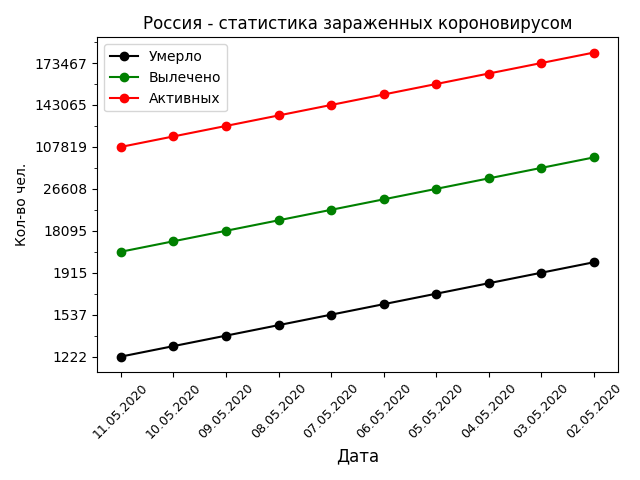
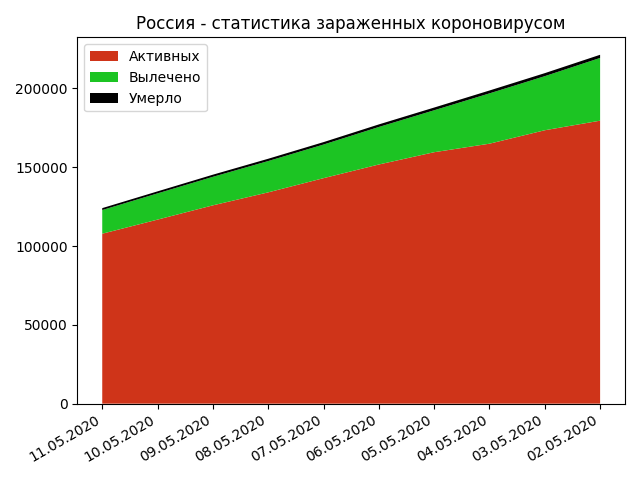
COVID-19 final stat

diff --git a/covid/covid_func.py b/covid/covid_func.py
@@ -1,5 +1,4 @@
 from covid.receive_data import ReceiveCovid
-import matplotlib.ticker as ticker
 import matplotlib.pyplot as plt
 import matplotlib as mpl
 
@@ -18,32 +17,25 @@ class Covid:
         response += "Вылечено: {0} ({1} за сегодня)\n".format(data.cured[i], data.cured_plus[i])
         response += "Умерло: {0} ({1} за сегодня)\n".format(data.died[i], data.died_plus[i])
 
+        labels = ["Активных", "Вылечено", "Умерло"]
+        colors = ["#CF3419", "#1CC423", "k"]
+
         #  Стиль графика
         mpl.style.use("default")
         fig, ax = plt.subplots()
 
-        #  Установка заголовка графика
         ax.set_title("Россия - статистика зараженных короновирусом", fontsize=12)
 
-        #  Задание данных для построения графика
-        ax.plot(data.days, data.died, "o-k", label="Умерло")
-        ax.plot(data.days, data.cured, "o-g", label="Вылечено")
-        ax.plot(data.days, data.active, "o-r", label="Активных")
+        y1 = [int(data.active[i]) for i in range(len(data.active))]
+        y2 = [int(data.cured[i]) for i in range(len(data.cured))]
+        y3 = [int(data.died[i]) for i in range(len(data.died))]
 
-        #  Настройка позиции (вида) индексов осей
-        ax.set_xticklabels(data.days, fontsize=9, rotation=45, horizontalalignment="center")
-
-        #  Частота индексов на оси OY
-        ax.yaxis.set_major_locator(ticker.MultipleLocator(4))
-        ax.yaxis.set_minor_locator(ticker.MultipleLocator(2))
-
-        #  Названия осей
-        ax.set_xlabel("Дата", fontsize=12)
-        ax.set_ylabel("Кол-во чел.")
+        ax.stackplot(data.days, y1, y2, y3, labels=labels, colors=colors, baseline="zero")
+        fig.autofmt_xdate()
 
         #  Инициализация легенды графика
-        ax.legend()
-
+        ax.legend(loc="upper left")
         plt.show()
+
         fig.savefig("covid/covid.png")
         return response, "covid/covid.png"

diff --git a/config.py b/config.py
@@ -1,10 +1,9 @@
 
 #  VK api токен для доступа
[1 lines of base64/hex data omitted]
+vk_api_token = "vk api token..."
 
 #  OpenWeather api вызов
-weather_api_call = "https://api.openweathermap.org/data/2.5/{" \
-                   "}?q=moscow&appid=d4caf1ea454415eb6df2072162f25fec&units=metric&lang=ru"
+weather_api_call = "https://api.openweathermap.org/data/2.5/{}?q={city}&appid={id}&units={u}&lang={lang}"
 
 #  Ссылка на картинки по погоде
 weather_link_png = "https://openweathermap.org/img/wn/{}.png"
@@ -34,11 +33,10 @@ week_day_dict = {"Понедельник": "Monday", "Вторник": "Tuesday"
                  "Четверг": "Thursday", "Пятница": "Friday", "Суббота": "Saturday"}
 
 #  Словарь с данными по шкале Бофорта
-wind_beaufort_dict = {"штиль": [0.0, 0.2], "тихий": [0.3, 1.5], "легкий": [1.6, 3.3],
-                      "слабый": [3.4, 5.4], "умеренный": [5.5, 7.9], "свежий": [8.0, 10.7],
-                      "сильный": [10.8, 13.8], "крепкий": [13.9, 17.1], "очень крепкий": [17.2, 20.7],
-                      "шторм": [20.8, 24.4], "сильный шторм": [24.5, 28.4], "жесткий шторм": [28.5, 32.6],
-                      "ураган": [33.0, 115.0]}
+wind_beaufort_dict = {"штиль": [0.0, 0.2], "тихий": [0.3, 1.5], "легкий": [1.6, 3.3], "слабый": [3.4, 5.4],
+                      "умеренный": [5.5, 7.9], "свежий": [8.0, 10.7], "сильный": [10.8, 13.8],
+                      "крепкий": [13.9, 17.1], "очень крепкий": [17.2, 20.7], "шторм": [20.8, 24.4],
+                      "сильный шторм": [24.5, 28.4], "жесткий шторм": [28.5, 32.6], "ураган": [33.0, 115.0]}
 
 #  Словарь с данными по напрвлению ветра (румб)
 wind_rumb_dict = {"северный": [0.0, 44.99], "северо-восточный": [45.0, 89.99], "восточный": [90.0, 134.99],

diff --git a/covid/receive_data.py b/covid/receive_data.py
@@ -51,3 +51,4 @@ class ReceiveCovid:
             x.append(re.findall(regex, str(num))[i].replace(" ", "").replace(">", "").replace("<", ""))
         x.reverse()
         return x
+
